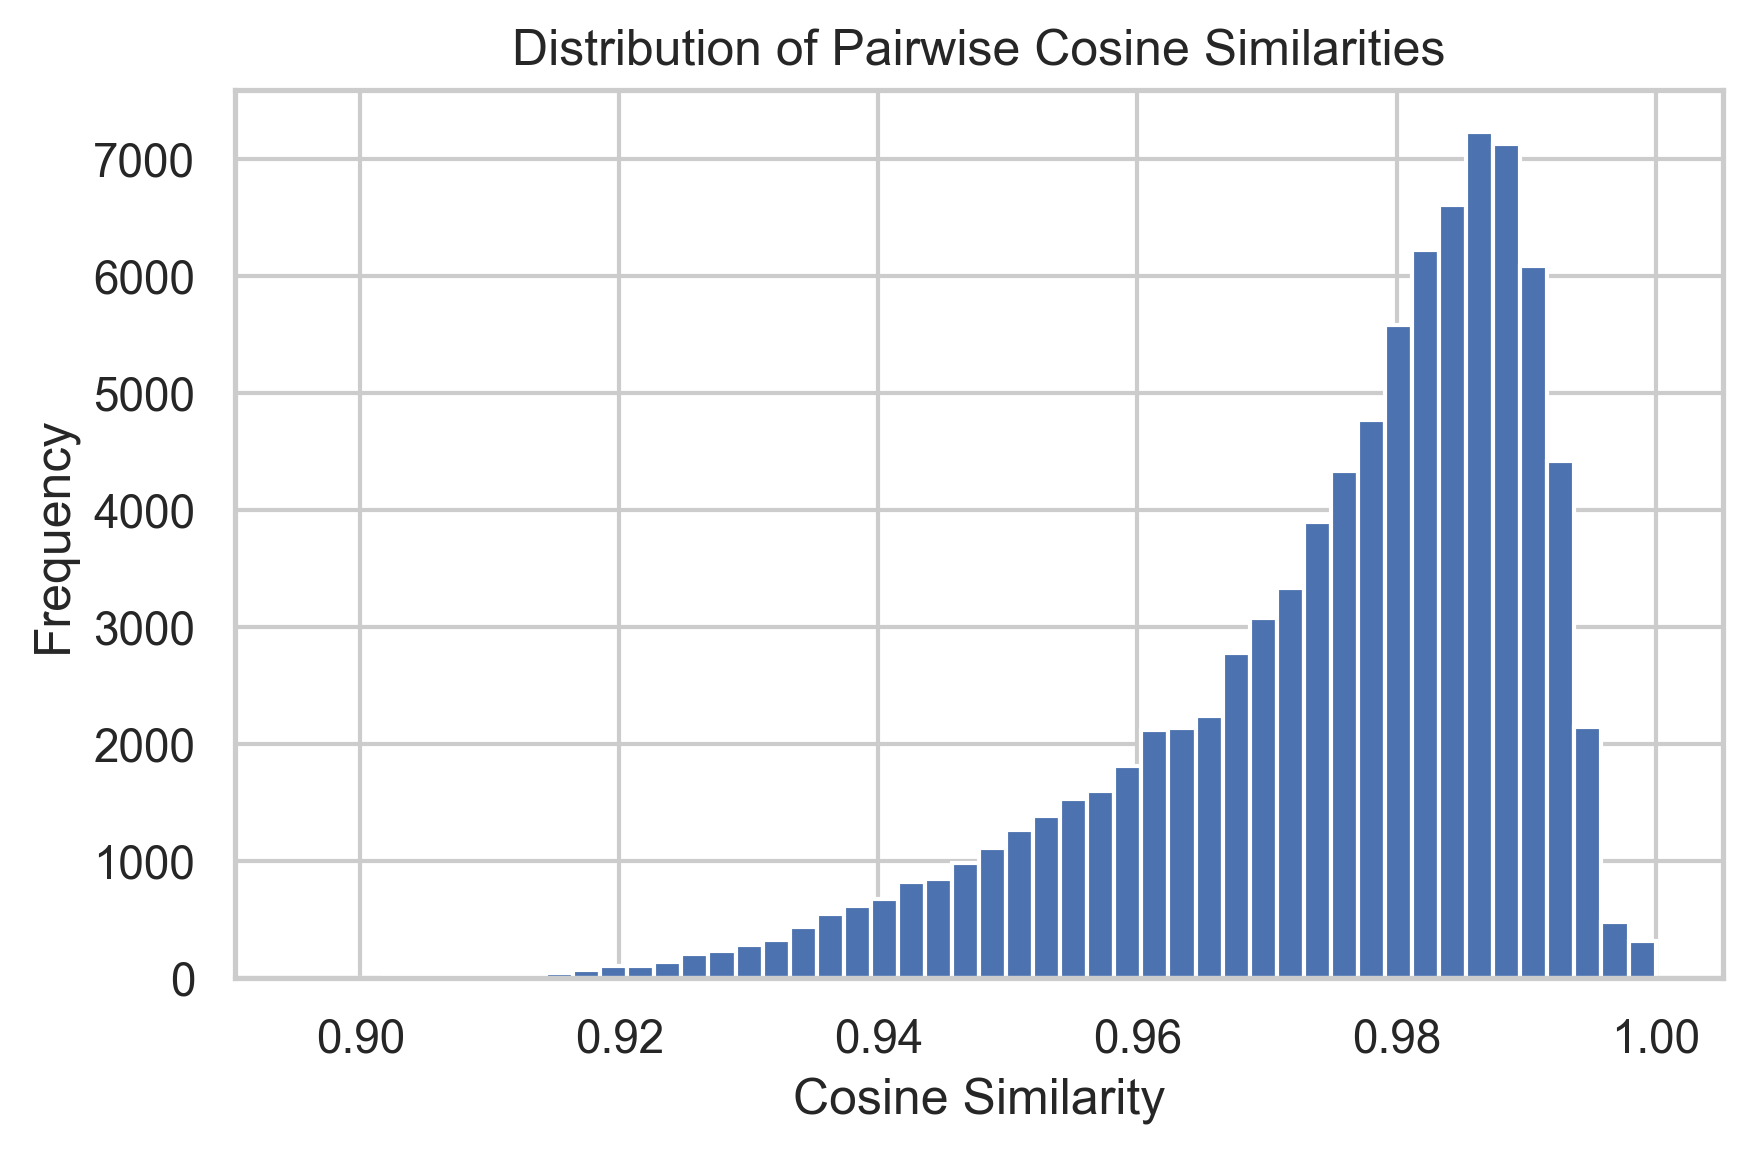
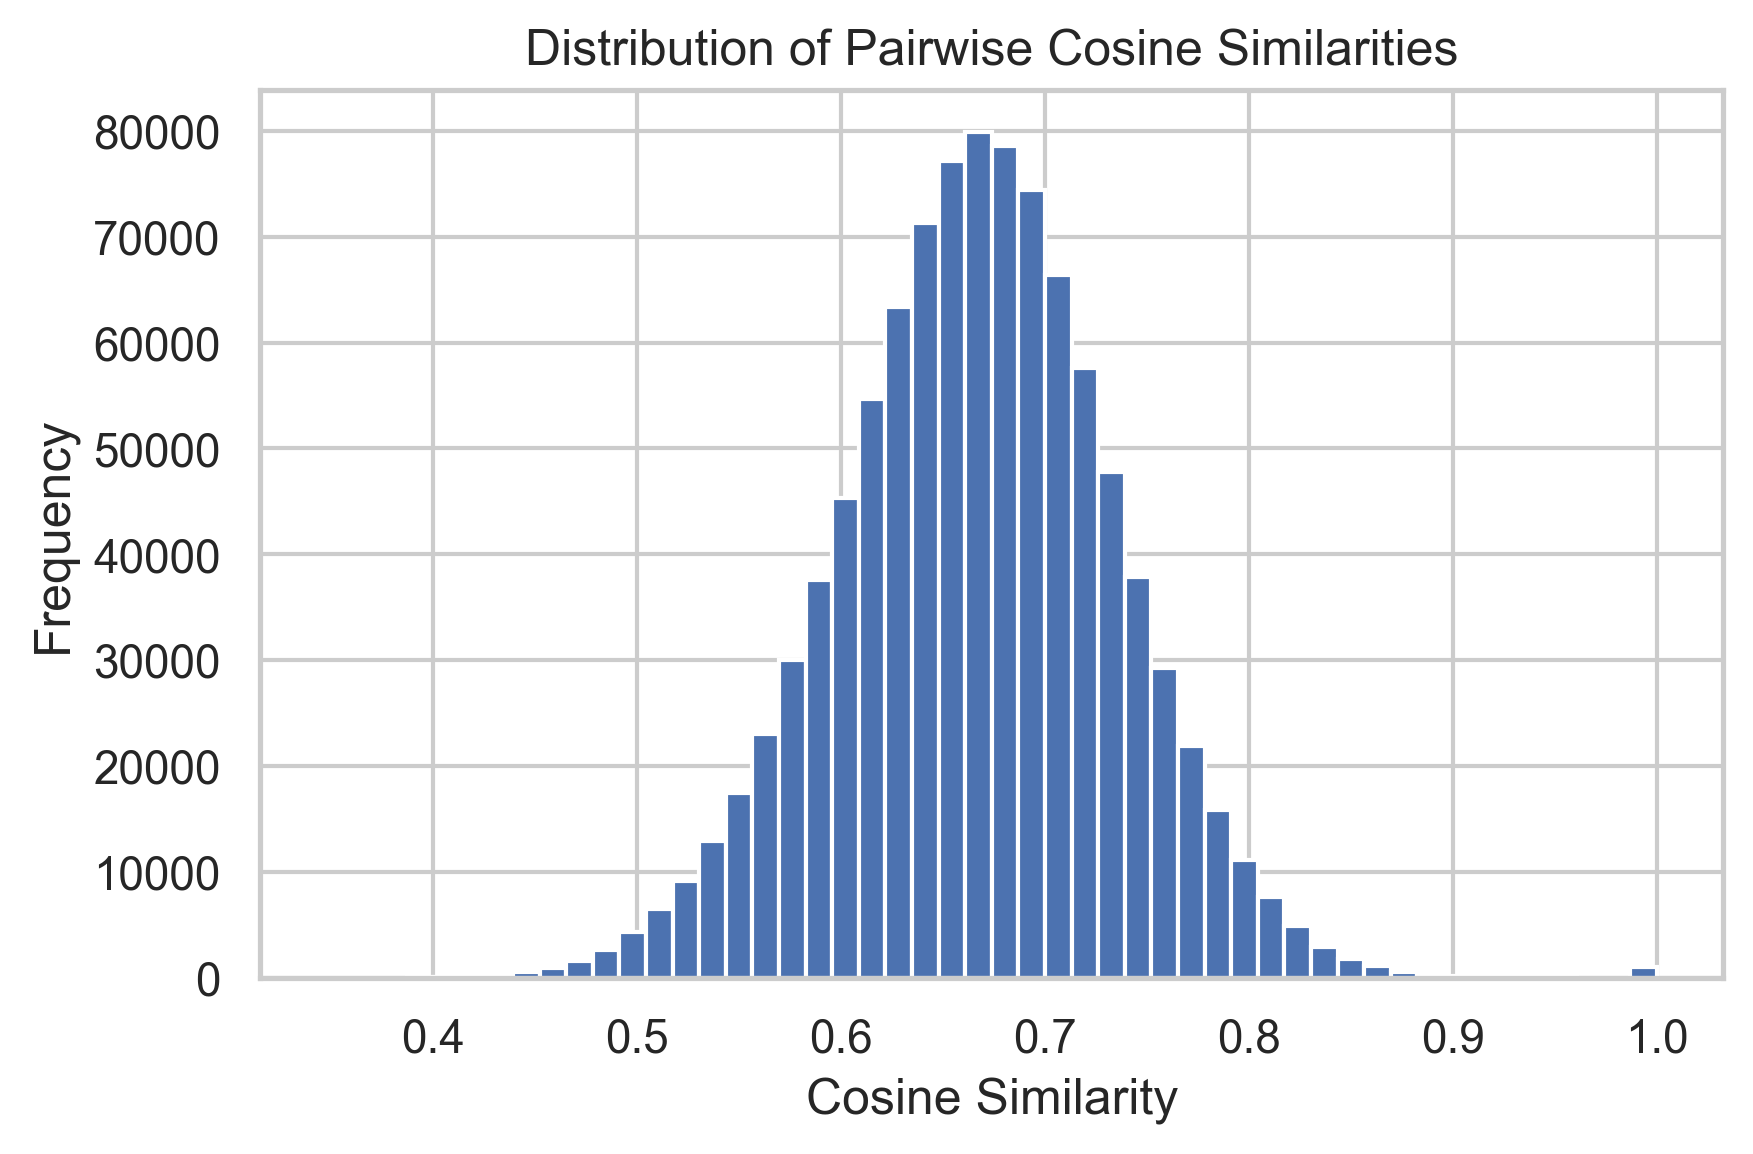
Anisotopic Exps Changed

diff --git a/experiments/3_embedding_anisotropy.py b/experiments/3_embedding_anisotropy.py
@@ -1,16 +1,11 @@
+from datasets import load_dataset
 from src.text_utils import embed_sentences
 import numpy as np
 from sklearn.metrics.pairwise import cosine_similarity
 
-sentences = [
-    "The cat sat on the mat",
-    "Machine learning is fascinating",
-    "Deep learning models learn representations",
-    "The weather is beautiful today",
-    "I enjoy reading research papers",
-    "Neural networks can approximate functions",
-    "Transformers changed natural language processing",
-]
+# Load 1000 random samples from a real corpus (AG News)
+dataset = load_dataset("ag_news", split="train").shuffle(seed=42).select(range(1000))
+sentences = dataset["text"]
 
 emb = embed_sentences(sentences)
 

diff --git a/experiments/visual_anisotropy.py b/experiments/visual_anisotropy.py
@@ -3,11 +3,13 @@ import matplotlib.pyplot as plt
 from sklearn.metrics.pairwise import cosine_similarity
 from src.text_utils import embed_sentences
 import seaborn as sns
+from datasets import load_dataset
 
 sns.set_theme(style="whitegrid")
 
-
-sentences = [f"This is sentence number {i}" for i in range(300)]
+# Load 1000 random samples from a real corpus
+dataset = load_dataset("ag_news", split="train").shuffle(seed=42).select(range(1000))
+sentences = dataset["text"]
 
 emb = embed_sentences(sentences)
 
